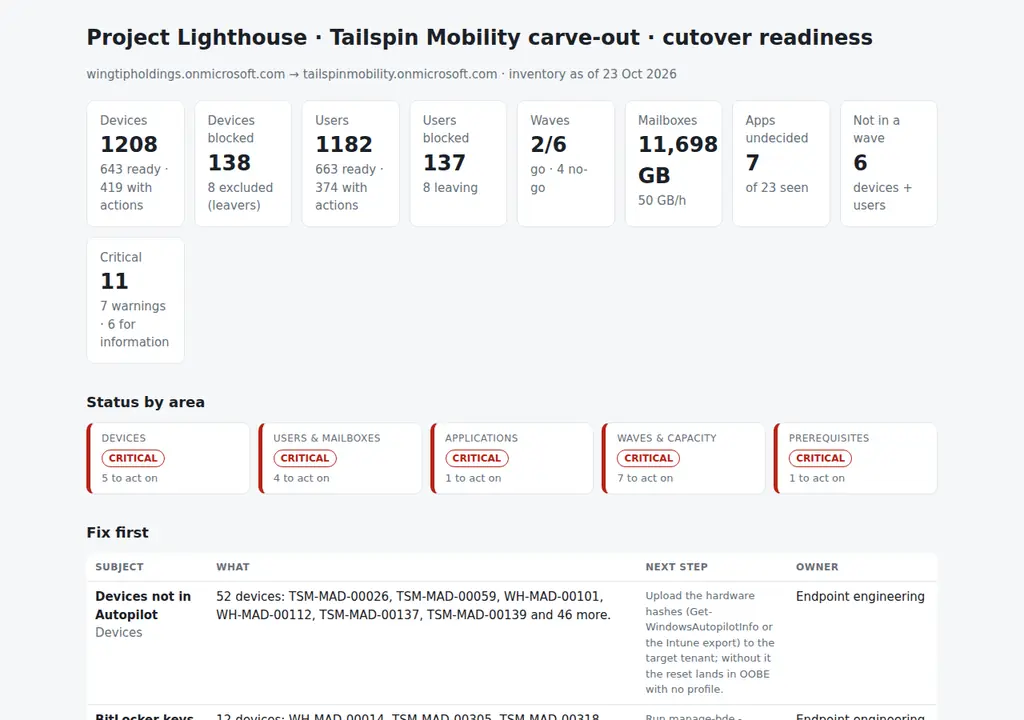
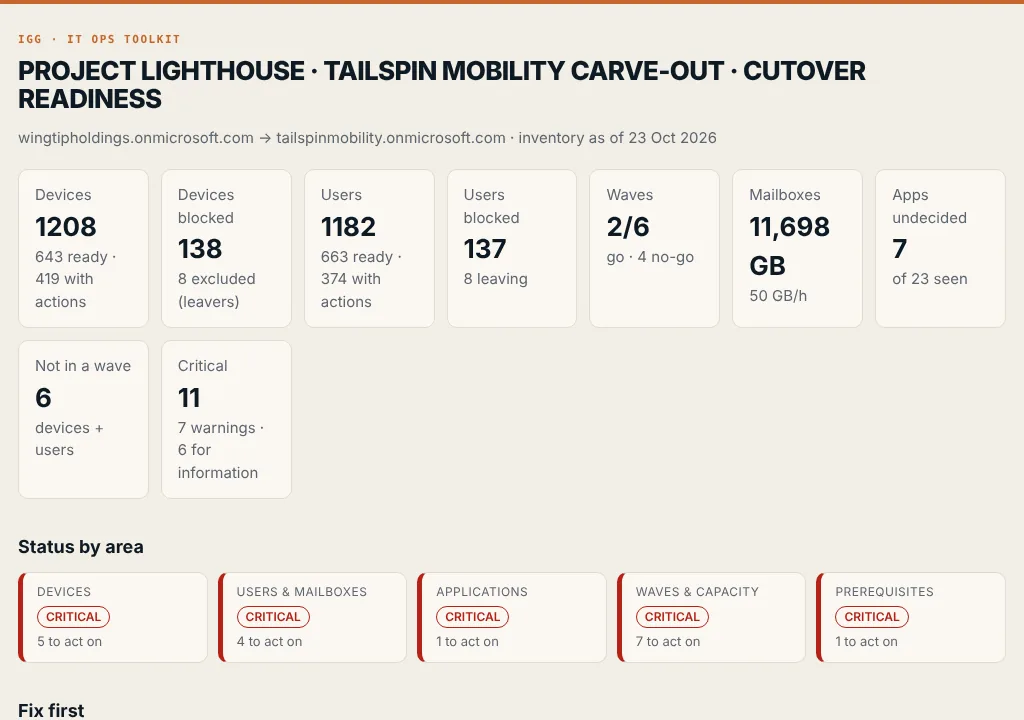
Report: IGG colours (paper, ink and the orange accent) and a new screenshot

diff --git a/cutover/report.py b/cutover/report.py
@@ -137,9 +137,9 @@ def plan_md(d: Data, findings: list[Finding], b: dict | None = None) -> str:
 # ---------------------------------------------------------------- html
 
 CSS = """
-:root{--bg:#f6f7f8;--card:#fff;--ink:#1b2128;--muted:#66717c;--line:#e2e5e9;--ok:#1e7a4c;--warn:#a46200;--bad:#b42318;--info:#0b6bcb;--na:#8a94a0}
-@media (prefers-color-scheme:dark){:root{--bg:#13171b;--card:#1b2127;--ink:#e7eaee;--muted:#9aa5b0;--line:#2b333b;--ok:#4cc38a;--warn:#f0a83a;--bad:#f2685c;--info:#5aa9f0;--na:#6d7782}}
-*{box-sizing:border-box}body{margin:0;background:var(--bg);color:var(--ink);font:15px/1.5 system-ui,-apple-system,Segoe UI,sans-serif}
+:root{--bg:#f2eee6;--card:#fbf8f3;--ink:#0e1a24;--muted:#5d6670;--line:#e2dccf;--ok:#1e7a4c;--warn:#a46200;--bad:#b42318;--info:#1f5f8b;--na:#8a94a0}
+@media (prefers-color-scheme:dark){:root{--bg:#0e1a24;--card:#142331;--ink:#f2eee6;--muted:#a9b3bb;--line:#24364a;--ok:#4cc38a;--warn:#f0a83a;--bad:#f2685c;--info:#5aa9f0;--na:#6d7782}}
+*{box-sizing:border-box}body{border-top:4px solid #c4672b}h1{font-weight:800;letter-spacing:-.025em;text-transform:uppercase;line-height:1.05}h1::before{content:"IGG · IT Ops toolkit";display:block;font:600 11px/1.4 ui-monospace,SFMono-Regular,Menlo,monospace;letter-spacing:.14em;text-transform:uppercase;color:#c4672b;margin-bottom:10px}body{margin:0;background:var(--bg);color:var(--ink);font:15px/1.5 system-ui,-apple-system,Segoe UI,sans-serif}
 main{max-width:1100px;margin:0 auto;padding:28px 18px 60px}h1{font-size:26px;margin:0 0 4px}h2{font-size:18px;margin:34px 0 12px}
 .muted{color:var(--muted)}.tiles{display:grid;grid-template-columns:repeat(auto-fit,minmax(118px,1fr));gap:12px;margin-top:20px}
 .tile{background:var(--card);border:1px solid var(--line);border-radius:10px;padding:14px 16px}.tile b{display:block;font-size:26px}
